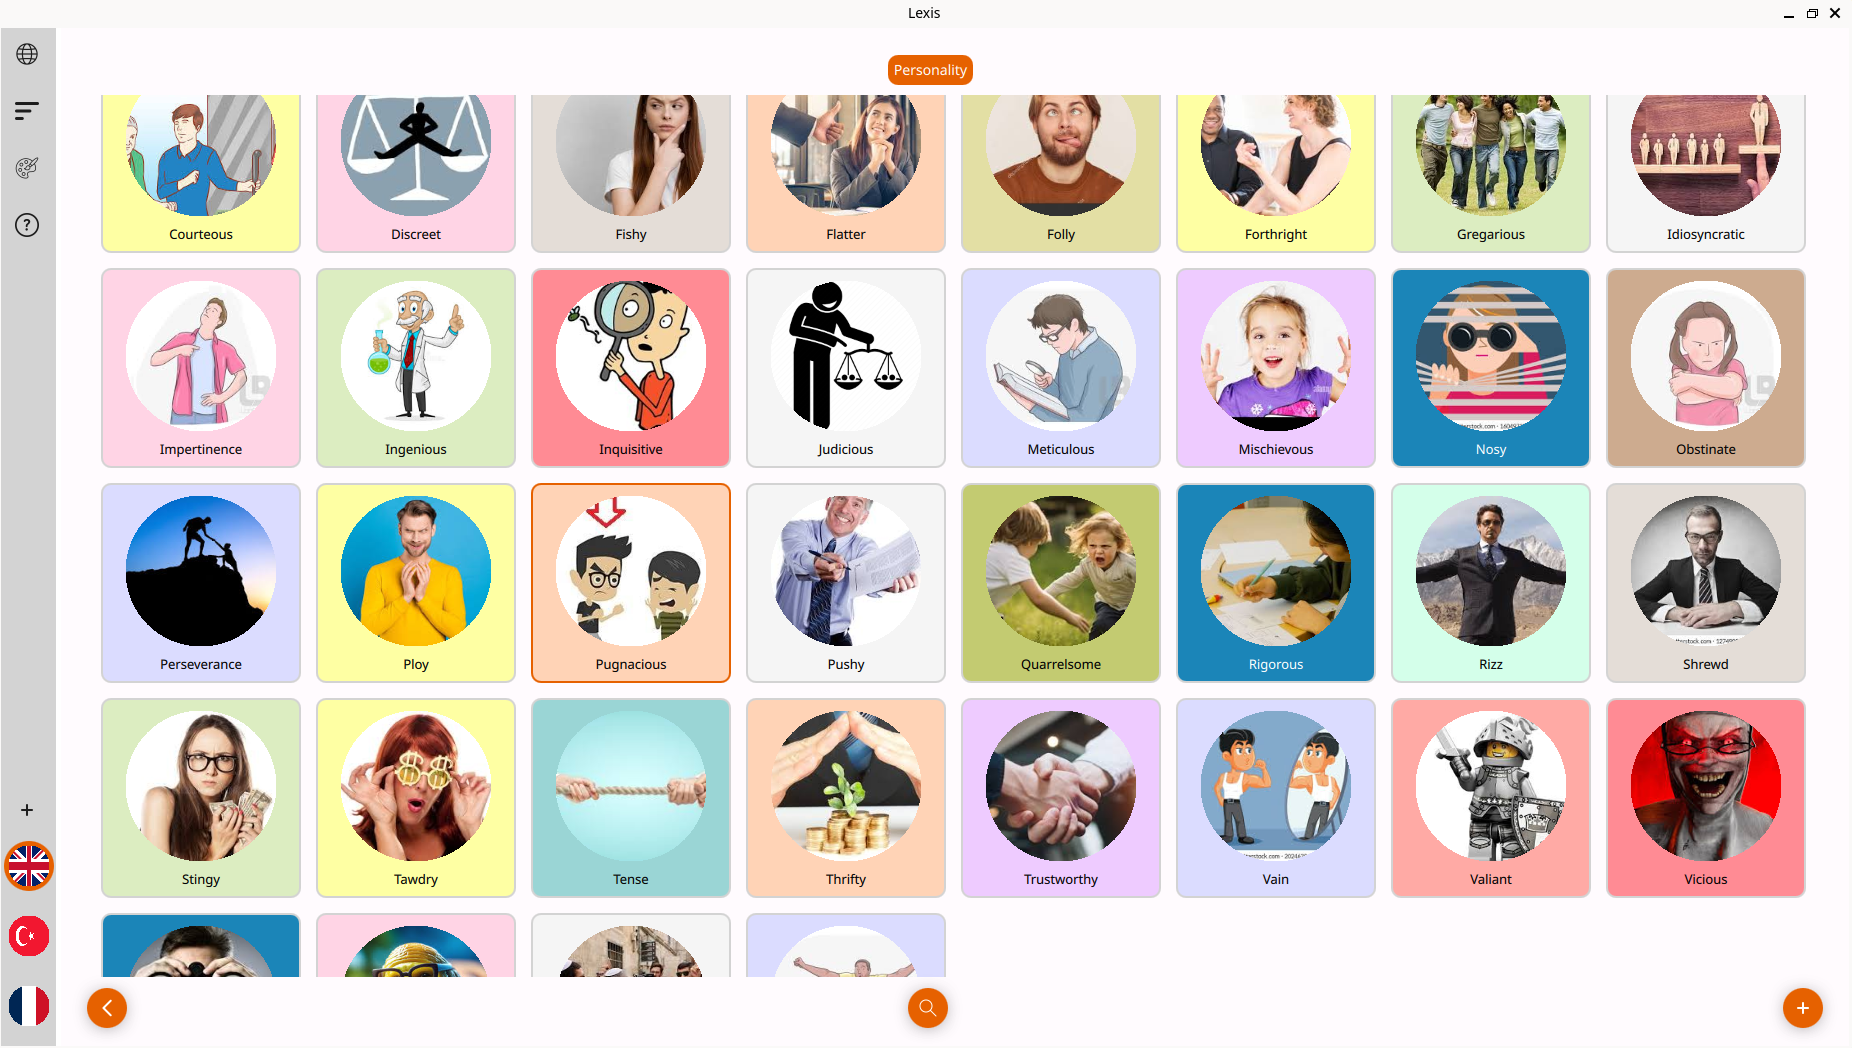
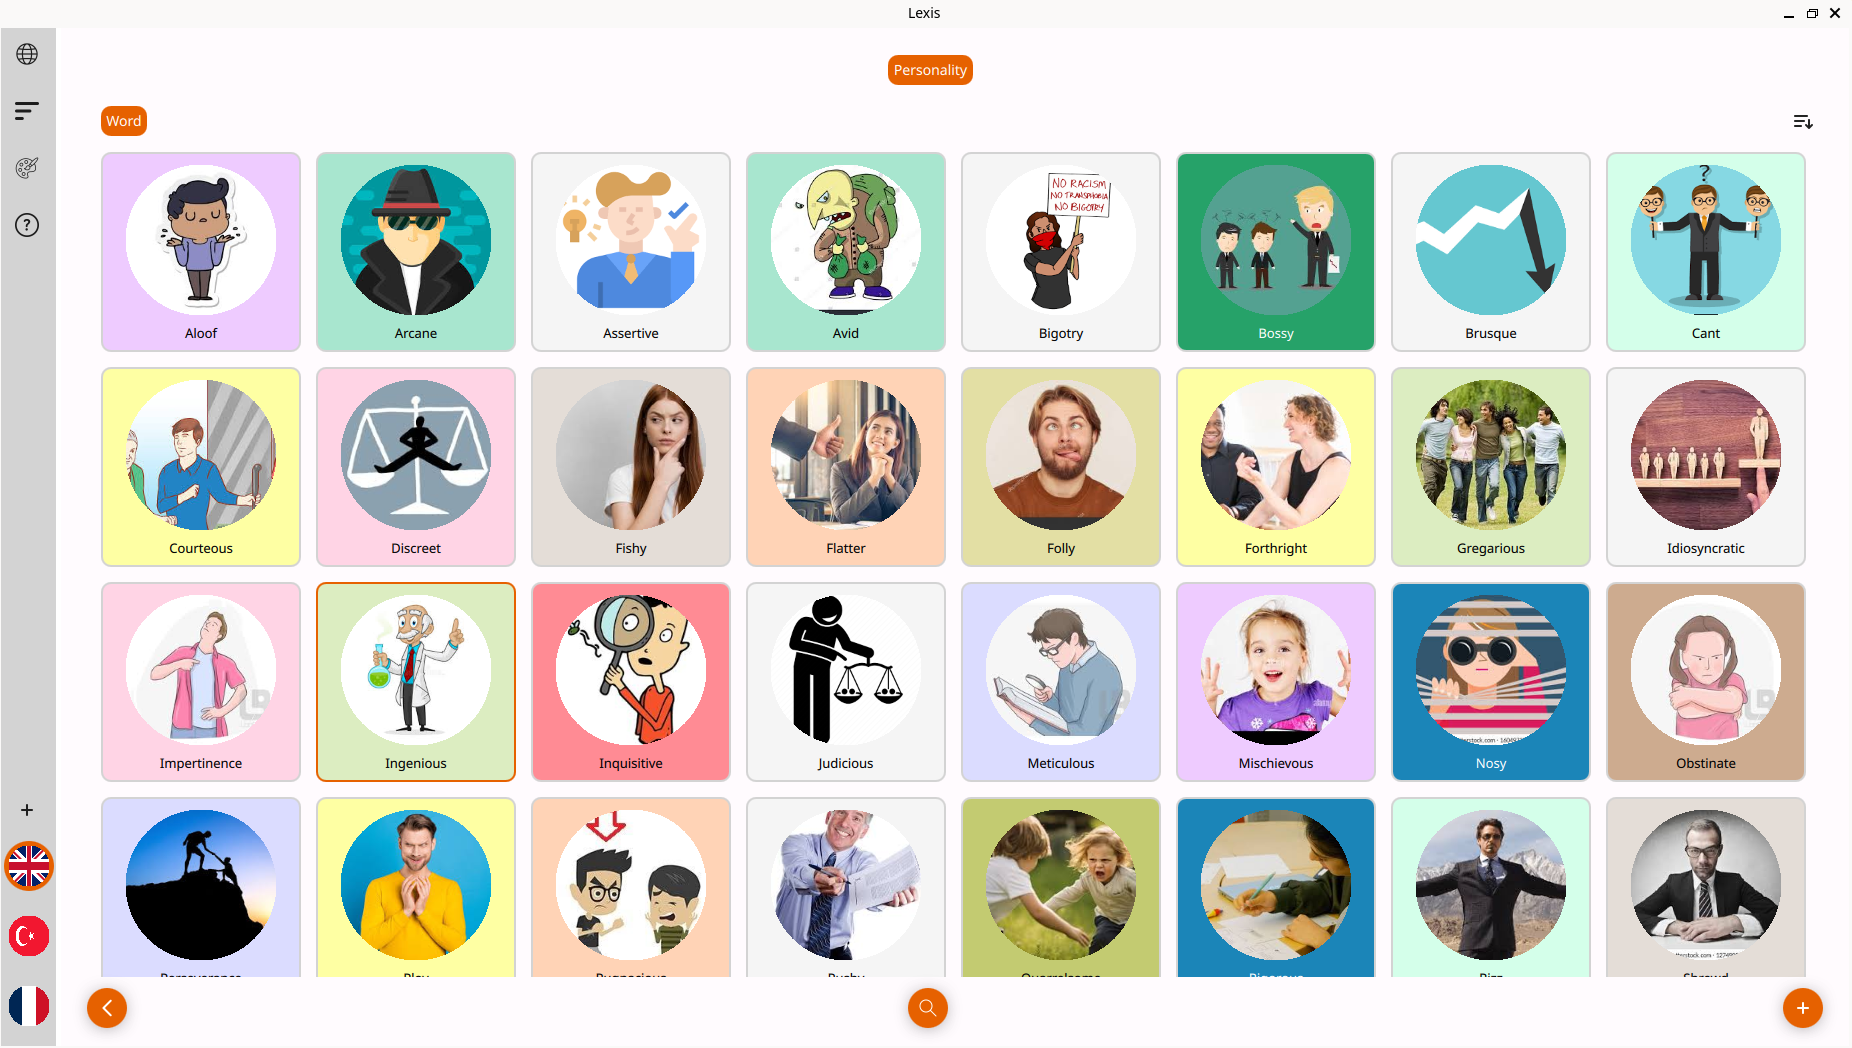
use word  to illustrate app's work

diff --git a/README.md b/README.md
@@ -17,12 +17,12 @@
 Using **Lexis**, you can create your own collections of words, grouping them as you wish.
 
 ## Example of use
-Lets pretend you're reading some book and encounter an unknown word *pugnacious*.
+Lets pretend you're reading some book and encounter an unknown word *ingenious*.
 You'd like to learn it, but instead of writing it down to some piece of paper, you can add it to your word
 collection in **Lexis**. This way you'll get a dictionary definition of the word with a picture associated with
-its meaning, plus an audiable pronunciation - pretty much handy, isn't it?
+its meaning, plus the transcription with an audiable pronunciation - pretty much handy, isn't it?
 
-1. Since the word *pugnacious* may be used to describe a person, you can add it to the *Personality* subject group.
+1. Since the word *ingenious* may be used to describe a person, you can add it to the *Personality* subject group.
 
 ![Collection](docs/images/collection.png)
 
@@ -32,7 +32,7 @@ the desired word in the language you're learning:
 ![New word](docs/images/add_new_word.png)
 
 3. Pick an image best associated with the meaning of this word and drag it to the specified area. In case search results don't
-reflect the meaning of the word too good, you can type a different word or phrase in any language in the bottom bar and search again: 
+reflect the meaning of the word too good, you can type a different word or phrase in any language in the bottom bar and search again:
 
 ![Pick image](docs/images/pick_image.png)
 
